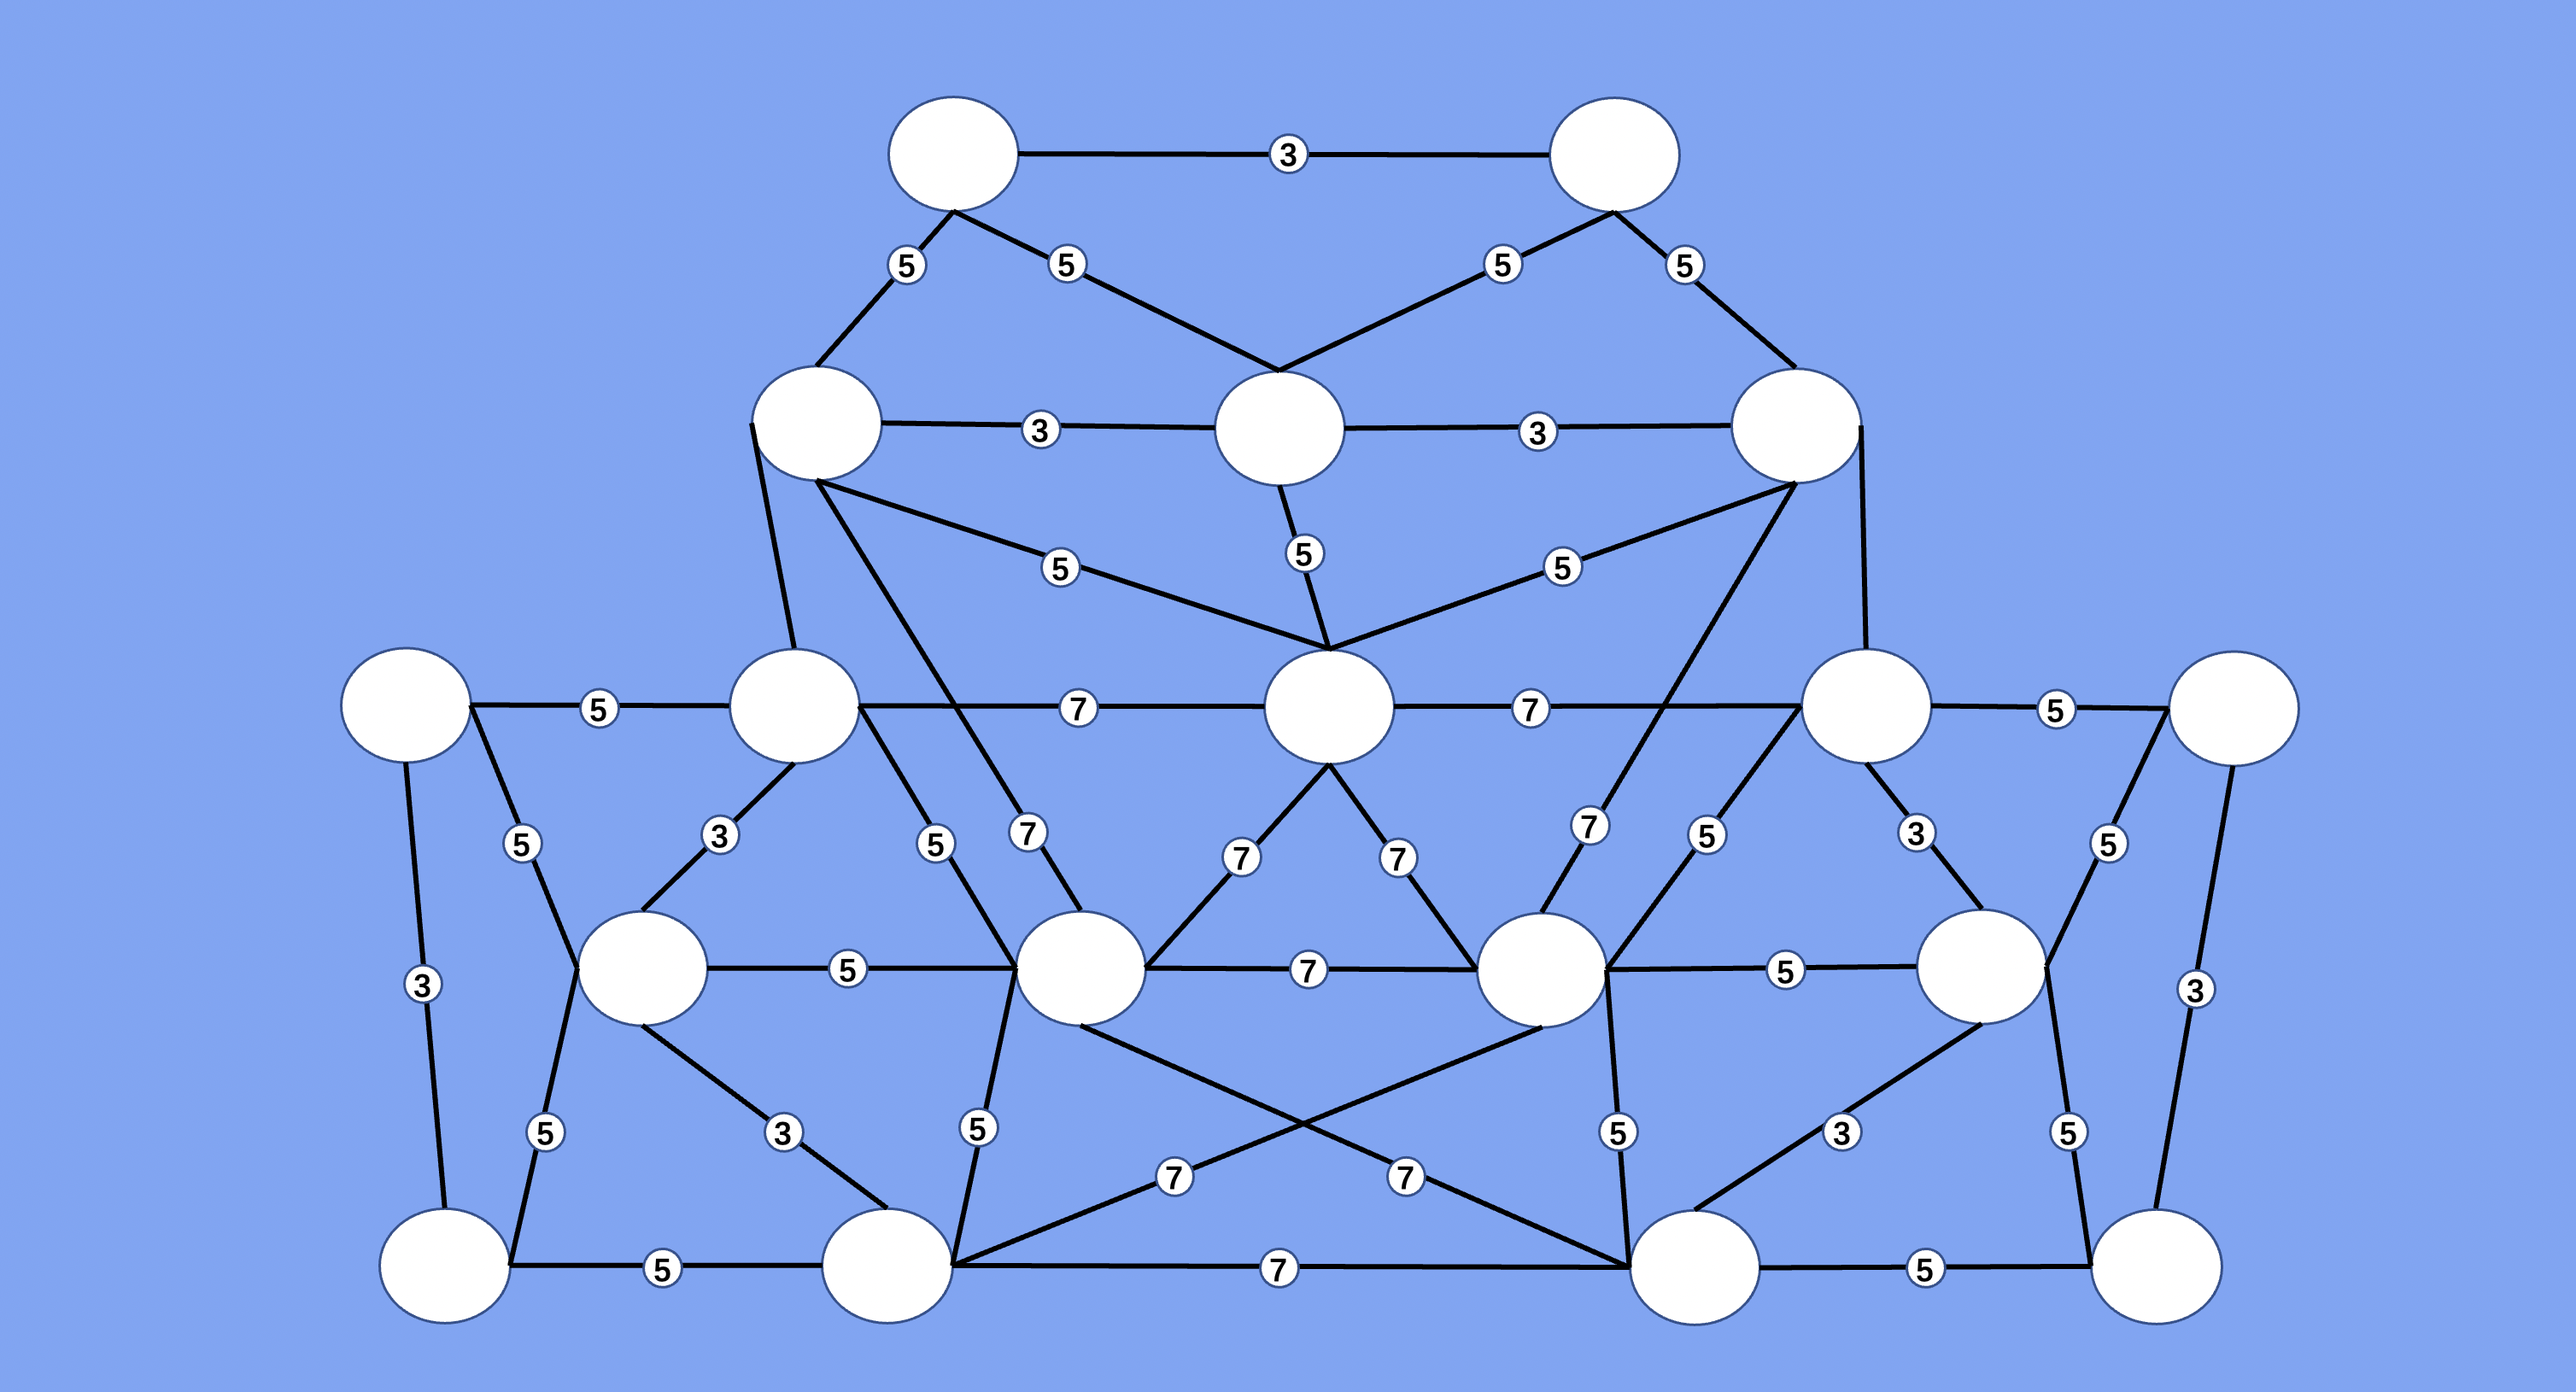
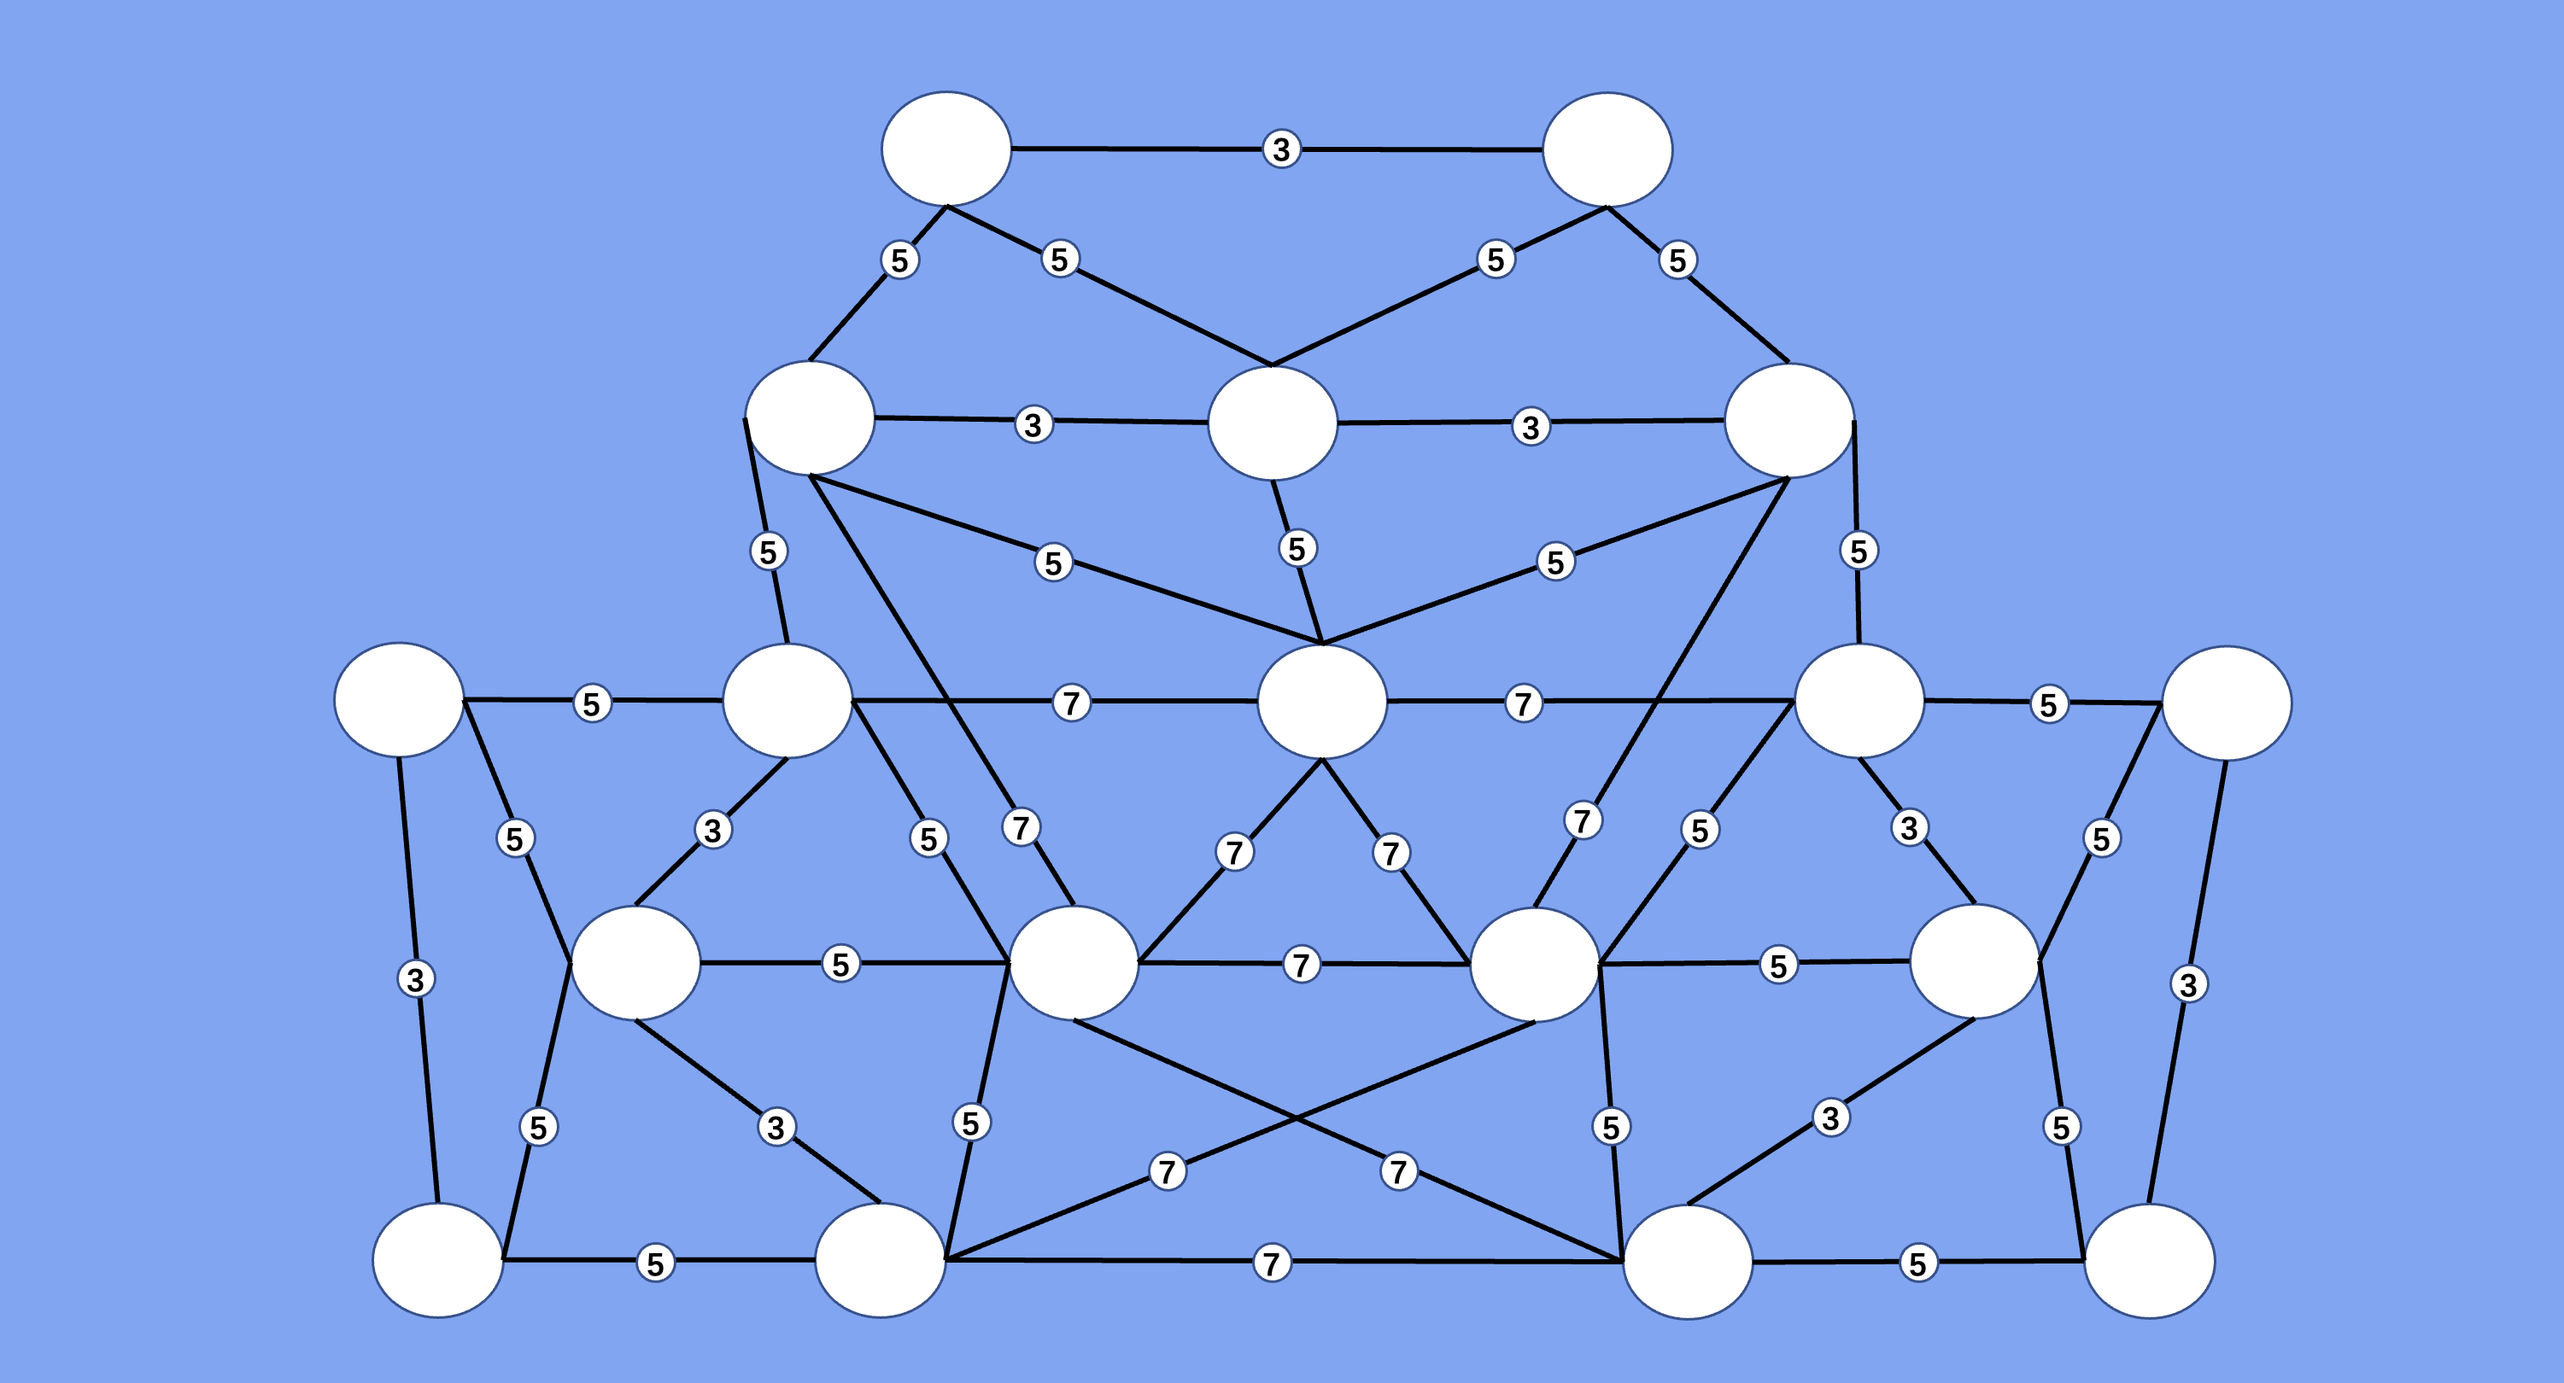
Adjusted 3 player map

diff --git a/frontend/src/maps/components/Map3Players.js b/frontend/src/maps/components/Map3Players.js
@@ -11,173 +11,173 @@ const Map3Players = (props) => {
   };
 
   return (
-      <Container>
-        <Row>
-          <Col></Col>
-          <Col></Col>
-          <Col>
-            <TerritoryView
-                key="Labrador"
-                territory={getTerritory("Labrador")}
-                handleSourceOrTarget={props.handleSourceOrTarget}
-            />
-          </Col>
-          <Col></Col>
-          <Col>
-            <TerritoryView
-                key="Bulldog"
-                territory={getTerritory("Bulldog")}
-                handleSourceOrTarget={props.handleSourceOrTarget}
-            />
-          </Col>
-          <Col></Col>
-          <Col></Col>
-        </Row>
-        <br />
-        <Row>
-          <Col></Col>
-          <Col></Col>
-          <Col>
-            <TerritoryView
-                key="Rottweiler"
-                territory={getTerritory("Rottweiler")}
-                handleSourceOrTarget={props.handleSourceOrTarget}
-            />
-          </Col>
-          <Col md={1}> </Col>
-          <Col>
-            <TerritoryView
-                key="Dachshund"
-                territory={getTerritory("Dachshund")}
-                handleSourceOrTarget={props.handleSourceOrTarget}
-            />
-          </Col>
-          <Col md={1}> </Col>
-          <Col>
-            <TerritoryView
-                key="Beagle"
-                territory={getTerritory("Beagle")}
-                handleSourceOrTarget={props.handleSourceOrTarget}
-            />
-          </Col>
-          <Col></Col>
-          <Col></Col>
-        </Row>
-        <br />
-        <Row>
-          <Col md={1}>
-            <TerritoryView
-                key="Boxer"
-                territory={getTerritory("Boxer")}
-                handleSourceOrTarget={props.handleSourceOrTarget}
-            />
-          </Col>
-          <Col></Col>
-          <Col>
-            <TerritoryView
-                key="Spaniel"
-                territory={getTerritory("Spaniel")}
-                handleSourceOrTarget={props.handleSourceOrTarget}
-            />
-          </Col>
-          <Col> </Col>
-          <Col md={1}>
-            <TerritoryView
-                key="Poodle"
-                territory={getTerritory("Poodle")}
-                handleSourceOrTarget={props.handleSourceOrTarget}
-            />
-          </Col>
-          <Col> </Col>
-          <Col> </Col>
-          <Col md={1}>
-            <TerritoryView
-                key="Pug"
-                territory={getTerritory("Pug")}
-                handleSourceOrTarget={props.handleSourceOrTarget}
-            />
-          </Col>
-          <Col> </Col>
-          <Col md={1}>
-            <TerritoryView
-                key="Mastiff"
-                territory={getTerritory("Mastiff")}
-                handleSourceOrTarget={props.handleSourceOrTarget}
-            />
-          </Col>
-        </Row>
-        <br />
-        <Row>
-          <Col></Col>
-          <Col></Col>
-          <Col>
-            <TerritoryView
-                key="Brittany"
-                territory={getTerritory("Brittany")}
-                handleSourceOrTarget={props.handleSourceOrTarget}
-            />
-          </Col>
-          <Col> </Col>
-          <Col>
-            <TerritoryView
-                key="Havanese"
-                territory={getTerritory("Havanese")}
-                handleSourceOrTarget={props.handleSourceOrTarget}
-            />
-          </Col>
-          <Col> </Col>
-          <Col>
-            <TerritoryView
-                key="Vizsla"
-                territory={getTerritory("Vizsla")}
-                handleSourceOrTarget={props.handleSourceOrTarget}
-            />
-          </Col>
-          <Col> </Col>
-          <Col>
-            <TerritoryView
-                key="Chihuahua"
-                territory={getTerritory("Chihuahua")}
-                handleSourceOrTarget={props.handleSourceOrTarget}
-            />
-          </Col>
-          <Col></Col>
-        </Row>
-        <br />
-        <Row>
-          <Col>
-            <TerritoryView
-                key="Akita"
-                territory={getTerritory("Akita")}
-                handleSourceOrTarget={props.handleSourceOrTarget}
-            />
-          </Col>
-          <Col md={1}> </Col>
-          <Col>
-            <TerritoryView
-                key="Sheepdog"
-                territory={getTerritory("Sheepdog")}
-                handleSourceOrTarget={props.handleSourceOrTarget}
-            />
-          </Col>
-          <Col md={2}> </Col>
-          <Col>
-            <TerritoryView
-                key="Maltese"
-                territory={getTerritory("Maltese")}
-                handleSourceOrTarget={props.handleSourceOrTarget}
-            />
-          </Col>
-          <Col md={1}> </Col>
-          <Col>
-            <TerritoryView
-                key="Collie"
-                territory={getTerritory("Collie")}
-                handleSourceOrTarget={props.handleSourceOrTarget}
-            />
-          </Col>
-        </Row>
-      </Container>
+    <Container>
+      <Row>
+        <Col></Col>
+        <Col></Col>
+        <Col>
+          <TerritoryView
+            key="Labrador"
+            territory={getTerritory("Labrador")}
+            handleSourceOrTarget={props.handleSourceOrTarget}
+          />
+        </Col>
+        <Col></Col>
+        <Col>
+          <TerritoryView
+            key="Bulldog"
+            territory={getTerritory("Bulldog")}
+            handleSourceOrTarget={props.handleSourceOrTarget}
+          />
+        </Col>
+        <Col></Col>
+        <Col></Col>
+      </Row>
+      <br />
+      <Row>
+        <Col></Col>
+        <Col></Col>
+        <Col>
+          <TerritoryView
+            key="Rottweiler"
+            territory={getTerritory("Rottweiler")}
+            handleSourceOrTarget={props.handleSourceOrTarget}
+          />
+        </Col>
+        <Col md={1}> </Col>
+        <Col>
+          <TerritoryView
+            key="Dachshund"
+            territory={getTerritory("Dachshund")}
+            handleSourceOrTarget={props.handleSourceOrTarget}
+          />
+        </Col>
+        <Col md={1}> </Col>
+        <Col>
+          <TerritoryView
+            key="Beagle"
+            territory={getTerritory("Beagle")}
+            handleSourceOrTarget={props.handleSourceOrTarget}
+          />
+        </Col>
+        <Col></Col>
+        <Col></Col>
+      </Row>
+      <br />
+      <Row>
+        <Col md={1}>
+          <TerritoryView
+            key="Boxer"
+            territory={getTerritory("Boxer")}
+            handleSourceOrTarget={props.handleSourceOrTarget}
+          />
+        </Col>
+        <Col></Col>
+        <Col>
+          <TerritoryView
+            key="Spaniel"
+            territory={getTerritory("Spaniel")}
+            handleSourceOrTarget={props.handleSourceOrTarget}
+          />
+        </Col>
+        <Col> </Col>
+        <Col md={1}>
+          <TerritoryView
+            key="Poodle"
+            territory={getTerritory("Poodle")}
+            handleSourceOrTarget={props.handleSourceOrTarget}
+          />
+        </Col>
+        <Col> </Col>
+        <Col> </Col>
+        <Col md={1}>
+          <TerritoryView
+            key="Pug"
+            territory={getTerritory("Pug")}
+            handleSourceOrTarget={props.handleSourceOrTarget}
+          />
+        </Col>
+        <Col> </Col>
+        <Col md={1}>
+          <TerritoryView
+            key="Mastiff"
+            territory={getTerritory("Mastiff")}
+            handleSourceOrTarget={props.handleSourceOrTarget}
+          />
+        </Col>
+      </Row>
+      <br />
+      <Row>
+        <Col></Col>
+        <Col></Col>
+        <Col>
+          <TerritoryView
+            key="Brittany"
+            territory={getTerritory("Brittany")}
+            handleSourceOrTarget={props.handleSourceOrTarget}
+          />
+        </Col>
+        <Col> </Col>
+        <Col>
+          <TerritoryView
+            key="Havanese"
+            territory={getTerritory("Havanese")}
+            handleSourceOrTarget={props.handleSourceOrTarget}
+          />
+        </Col>
+        <Col> </Col>
+        <Col>
+          <TerritoryView
+            key="Vizsla"
+            territory={getTerritory("Vizsla")}
+            handleSourceOrTarget={props.handleSourceOrTarget}
+          />
+        </Col>
+        <Col> </Col>
+        <Col>
+          <TerritoryView
+            key="Chihuahua"
+            territory={getTerritory("Chihuahua")}
+            handleSourceOrTarget={props.handleSourceOrTarget}
+          />
+        </Col>
+        <Col></Col>
+      </Row>
+      <br />
+      <Row>
+        <Col md={1}>
+          <TerritoryView
+            key="Akita"
+            territory={getTerritory("Akita")}
+            handleSourceOrTarget={props.handleSourceOrTarget}
+          />
+        </Col>
+        <Col md={1}> </Col>
+        <Col md={2}>
+          <TerritoryView
+            key="Sheepdog"
+            territory={getTerritory("Sheepdog")}
+            handleSourceOrTarget={props.handleSourceOrTarget}
+          />
+        </Col>
+        <Col md={3}> </Col>
+        <Col md={2}>
+          <TerritoryView
+            key="Maltese"
+            territory={getTerritory("Maltese")}
+            handleSourceOrTarget={props.handleSourceOrTarget}
+          />
+        </Col>
+        <Col md={1}> </Col>
+        <Col md={2}>
+          <TerritoryView
+            key="Collie"
+            territory={getTerritory("Collie")}
+            handleSourceOrTarget={props.handleSourceOrTarget}
+          />
+        </Col>
+      </Row>
+    </Container>
   );
 };
 

diff --git a/frontend/src/maps/Map.js b/frontend/src/maps/Map.js
@@ -32,6 +32,7 @@ const Map = (props) => {
   const map3PlayersStyles = {
     position: 'relative',
     left: '-50px',
+    transform: 'scale(0.9)',
   }
 
   const map4PlayersStyles = {
